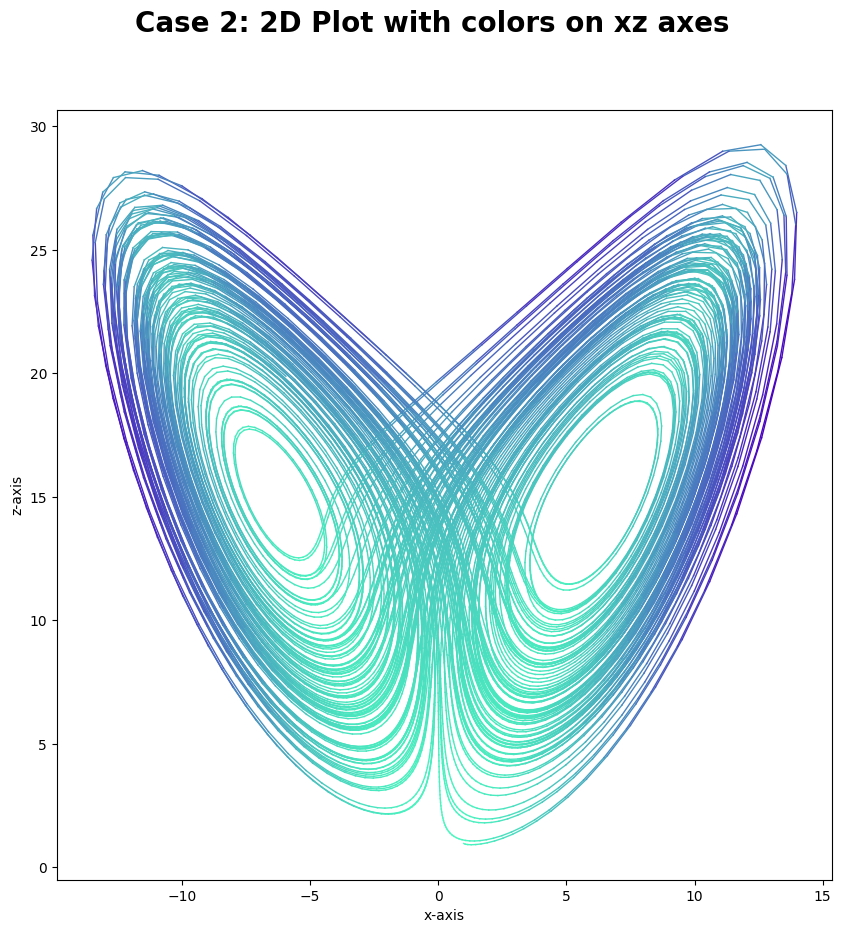
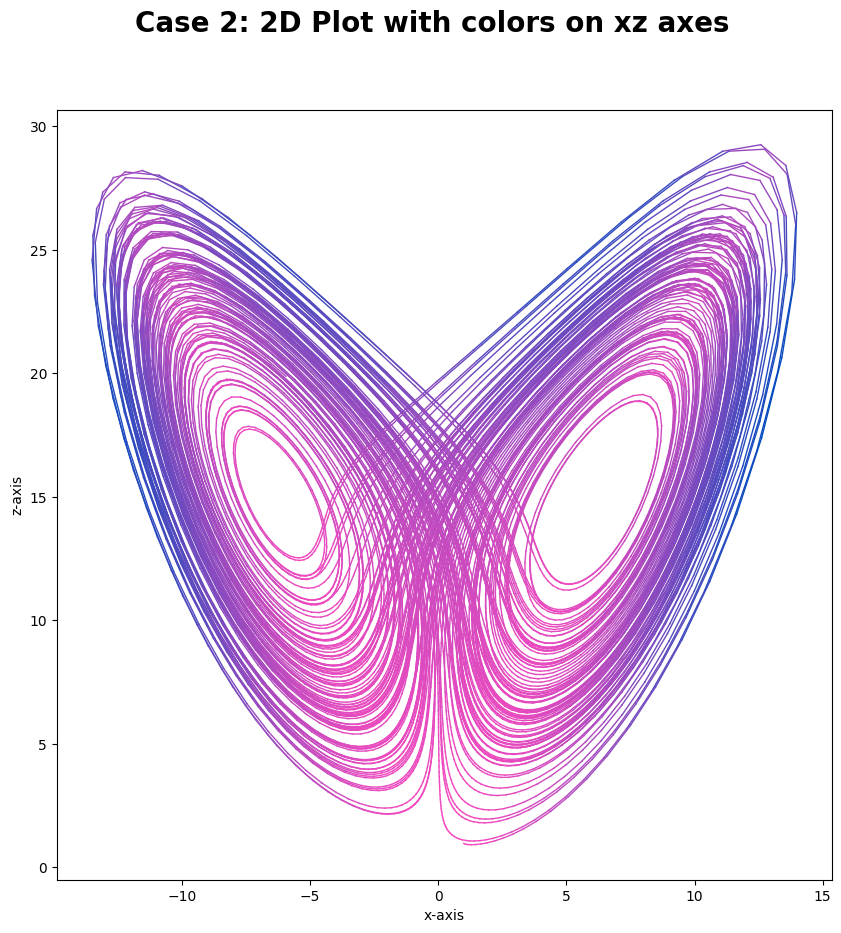
All images generated

Changed region(s): [[0.0927, 0.1554, 0.9584, 0.9014]]

diff --git a/lorenz/plot.py b/lorenz/plot.py
@@ -102,7 +102,7 @@ class OdePlotter:
         # Plotting points based on their distance in a different color
         for i in range(N - 1):
             dist = dists[i]
-            plt.plot(a_coordinates[i:i + 2], b_coordinates[i:i + 2], color=(0.29, 1 - (dist / max_distance), 0.75),
+            plt.plot(a_coordinates[i:i + 2], b_coordinates[i:i + 2], color=(1 - (dist / max_distance), 0.29, 0.75),
                      linewidth=1)
 
         # Setting the labels for axis
